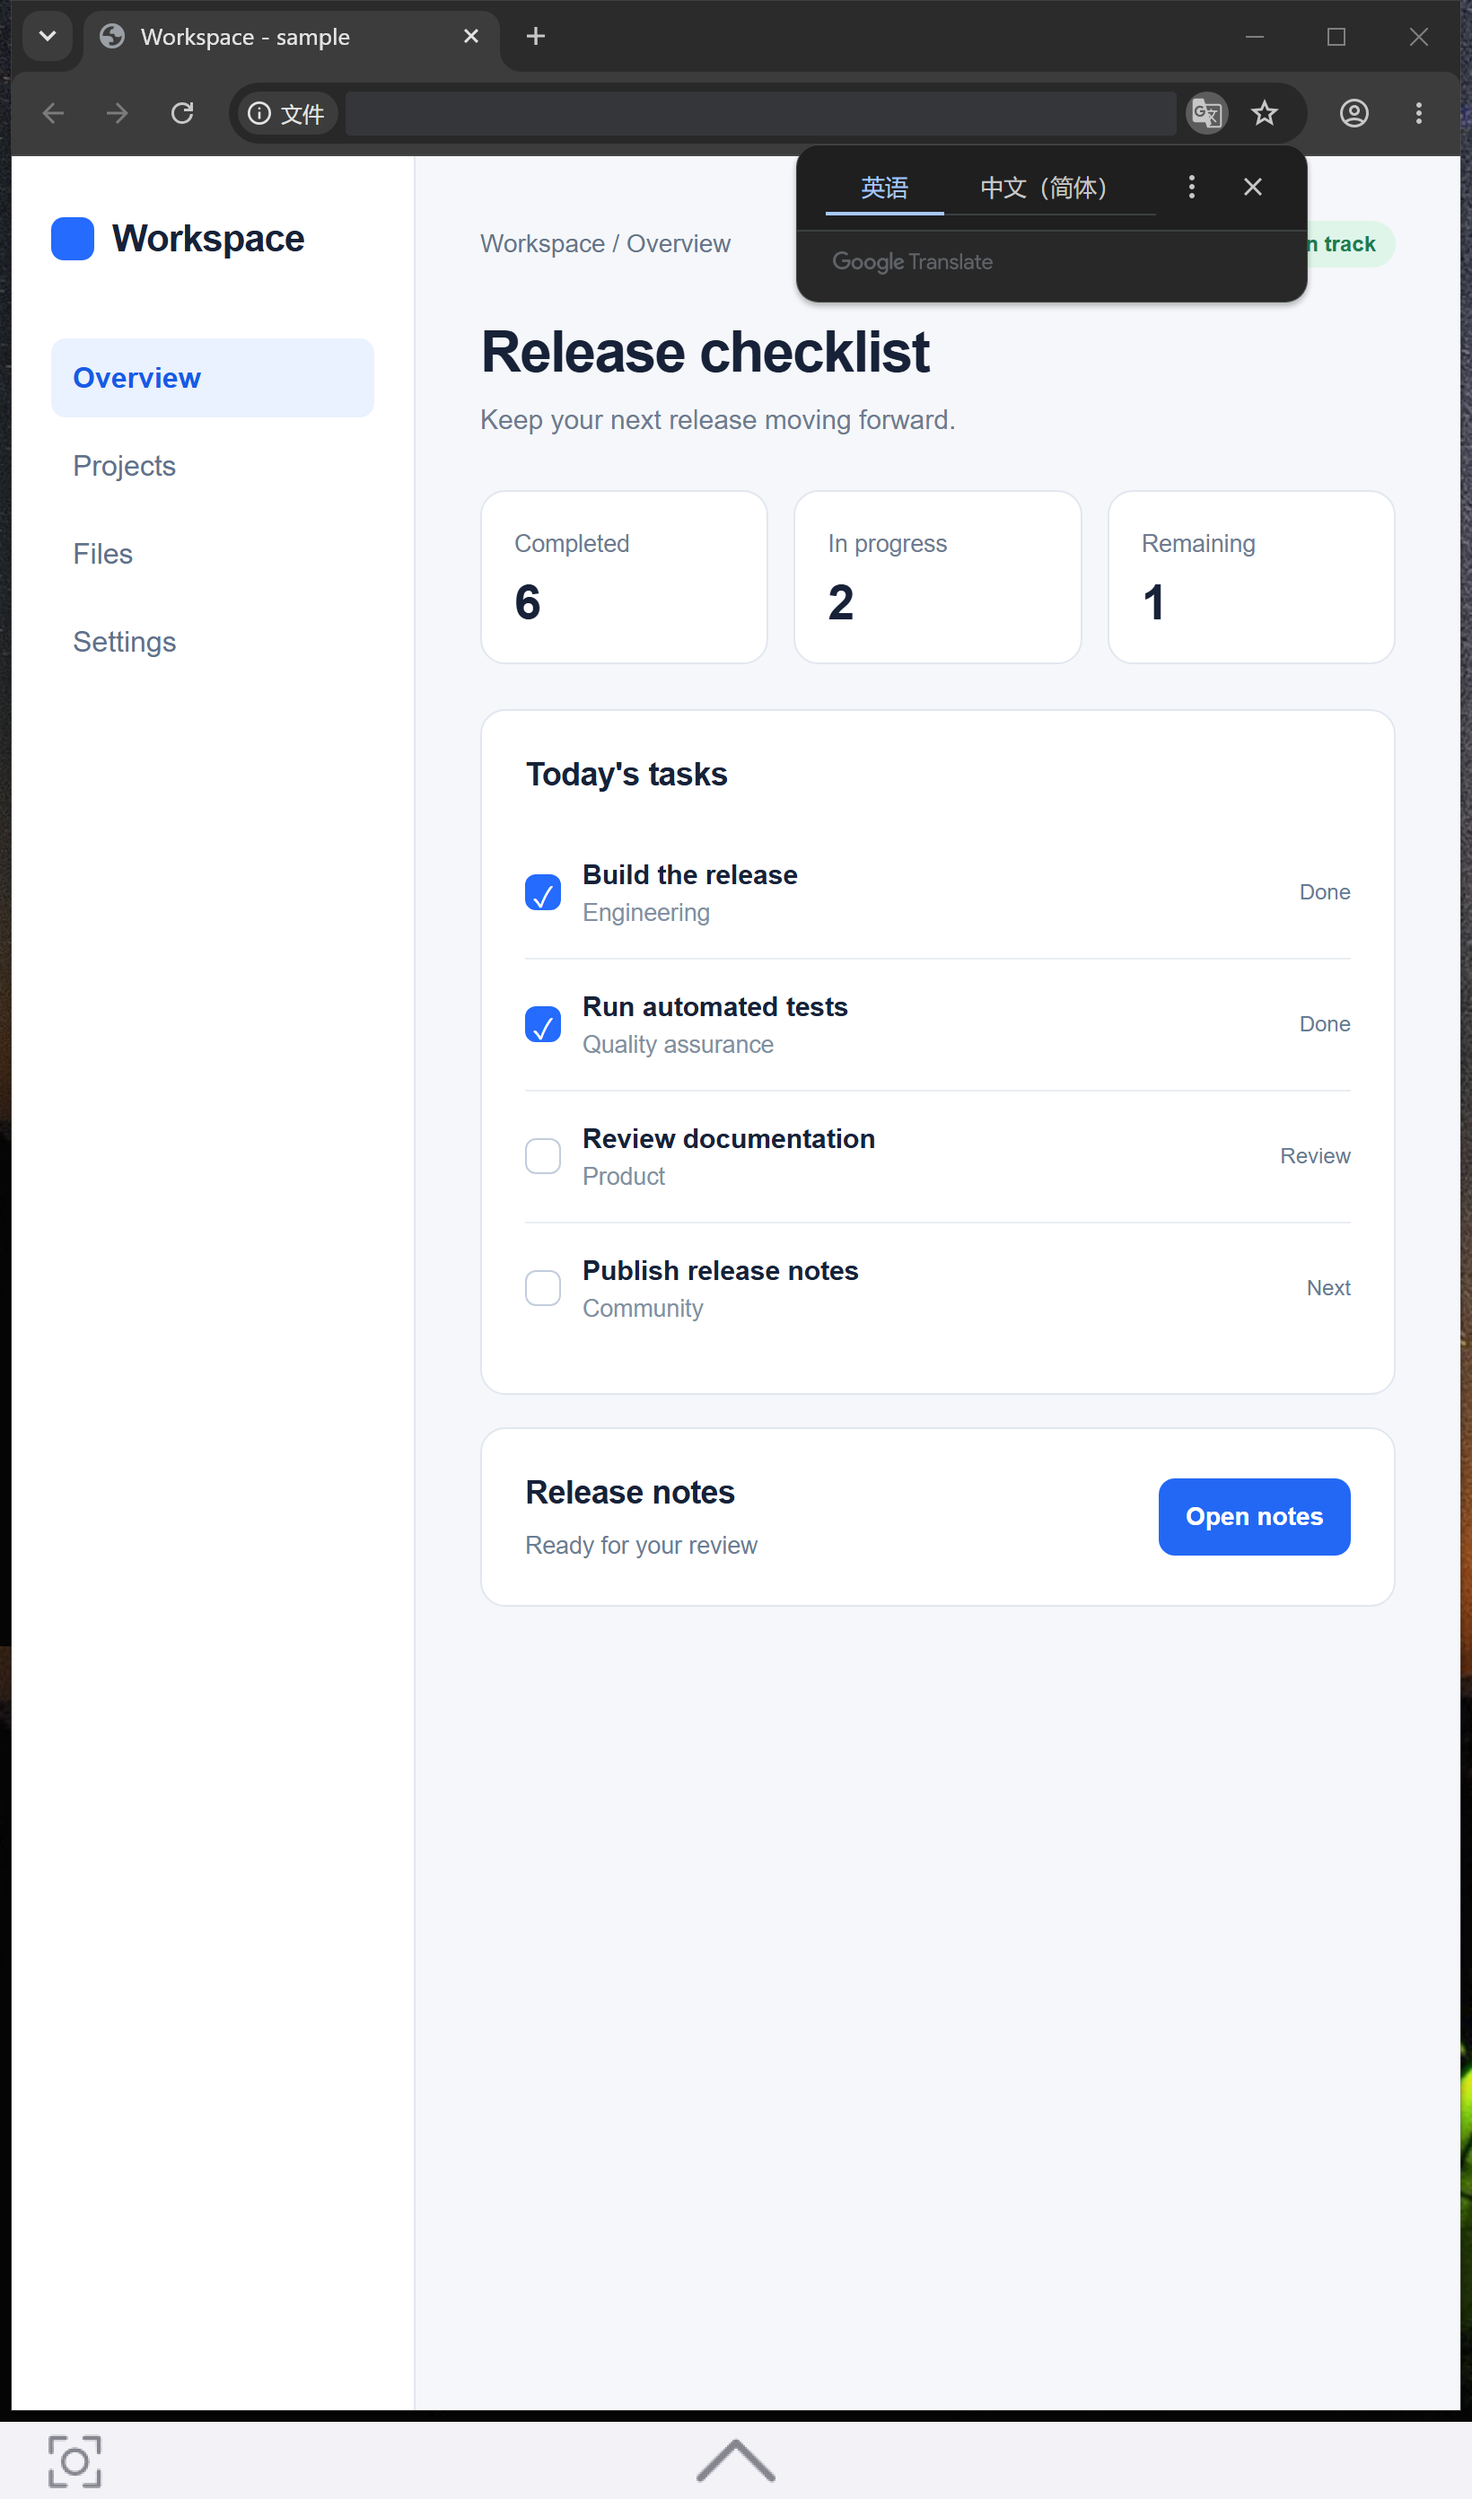
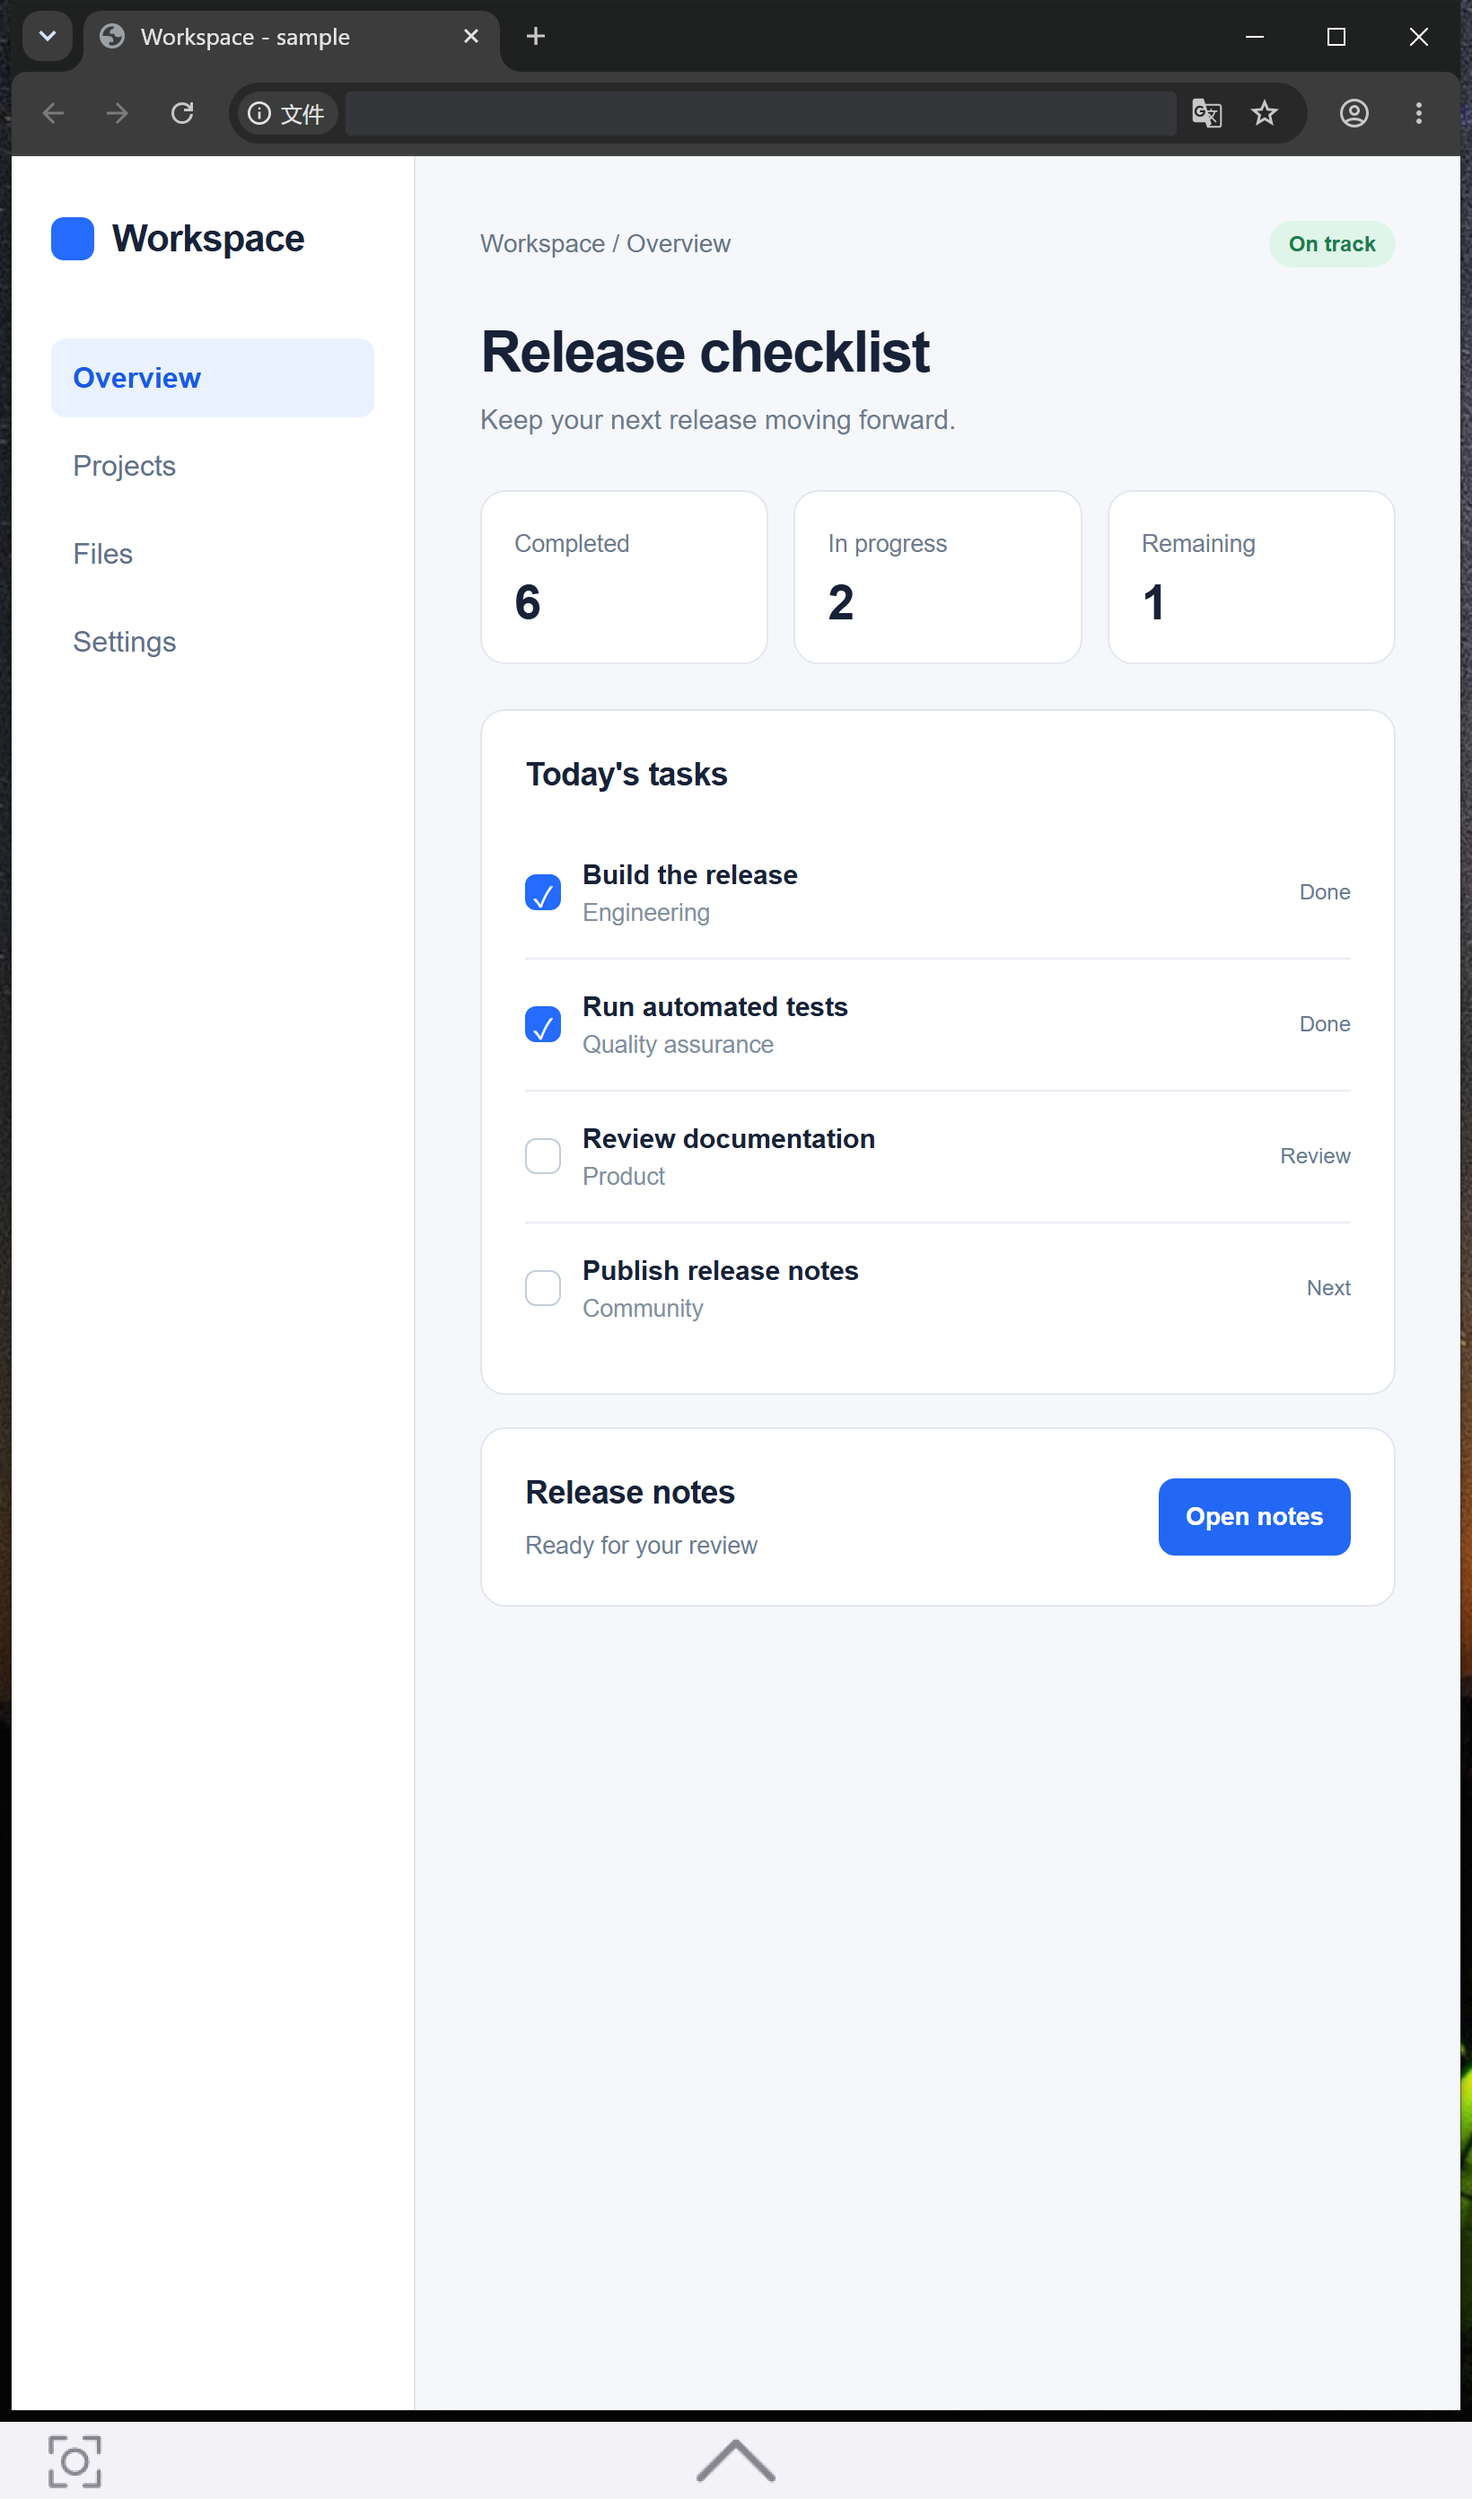
docs: showcase captured terminal workflow and clean phone screen

Changed region(s): [[0.5287, 0.0312, 0.9018, 0.125], [0.0, 0.4375, 0.0311, 0.6562], [0.0, 0.375, 0.0311, 0.4062]]

diff --git a/Assets/WindowsMedia/README.md b/Assets/WindowsMedia/README.md
@@ -7,7 +7,9 @@ The README prioritizes actual Windows application and virtual-display captures, 
 | phone-running.png | Actual Snug 0.2.38 Windows virtual display captured November 18, 2026, with UU connected. Native 1080 × 1834 pixels; app library shows Windows Settings, Calculator and Node.js. |
 | phone-browser-fit.png | Actual Windows virtual display capture from 0.2.17, November 16, 2026 (SNUG_0.2.17_BAR_RAISED.png). Chrome renders the browser-fit validation page; the return bar is visible. Local address path redacted. |
 | browser-window-before.png | Actual Chrome window on the primary Windows display before fitting, 945 x 1020, November 18 during 0.2.39 acceptance. Same local sample page as browser-phone-live.png. Address path redacted. |
-| browser-phone-live.png | Actual Snug 0.2.39 virtual-display capture during the real iPhone + UU session, 1640 x 2784. Same Chrome window after dynamic fitting; return bar visible. Address path redacted; the native Chrome translation popover is retained. Not a UU client screenshot. |
+| browser-phone-live.png | Actual Snug 0.2.39 virtual display, November 18, 1640 × 2784, during an iPhone + UU connection. Clean repeat capture of the same local sample page, with the full fitted window and return bar visible; address path redacted. |
+| phone-terminal-live.png | Actual Snug 0.2.39 virtual display, November 18, 1120 × 1902. Isolated Windows terminal: local Claude Code CLI version and Node.js test output, with return bar. Local prompt path redacted. No model inference. |
+| phone-tour-live.gif | Actual time-sampled frames of App Library search and terminal opening during the iPhone + UU session, November 18. PC-side operation; trimmed and resized to 480 × 815, with a later stable frame held at the end. Local prompt path redacted. Not a continuous mobile-client recording. |
 | phone-all-apps.png | Actual 0.2.38 WPF catalog preview, November 18. |
 | phone-search.png | Actual 0.2.38 WPF catalog preview, November 18; searching for Notepad. |
 | phone-models.png | Actual 0.2.38 WPF phone-model preview, November 18; current device, custom size and device list. |
@@ -17,4 +19,4 @@ The README prioritizes actual Windows application and virtual-display captures, 
 | desktop-vs-portrait.png | Previous illustrative comparison, removed from the main README. Not live UU capture. |
 | phone-tour.gif | Previous four-frame screenshot slideshow, removed from the main README. Not live screen recording. |
 
-Future captures: a clean terminal/AI coding workflow, a matched UU-mobile-client before/after comparison, long-press context menu, display picker and uninterrupted operation recording. See the [0.2.39 acceptance report](../../Platforms/Windows/CAPTURE_MONITOR_RECOVERY_20261118.md).
+Future captures: UU-mobile-client before/after comparison, verified phone long-press context menu, display picker, and uninterrupted on-device recording. See the [0.2.39 acceptance report](../../Platforms/Windows/CAPTURE_MONITOR_RECOVERY_20261118.md).

diff --git a/README.en.md b/README.en.md
@@ -17,10 +17,11 @@ Built for UU Remote · Dedicated portrait display · Native gestures · App Libr
 </div>
 
 <p align="center">
-<img src="Assets/WindowsMedia/phone-running.png" width="36%" alt="App Library on the Windows phone display">
-<img src="Assets/WindowsMedia/phone-browser-fit.png" width="36%" alt="Chrome fitted to the Snug phone display with the return bar">
-<br><sub>App Library · Chrome window fitted to the phone display</sub>
-<br><sub>Actual Windows virtual-display test captures; private titles and local paths redacted.</sub>
+<img src="Assets/WindowsMedia/phone-running.png" width="30%" alt="App Library on the Windows phone display">
+<img src="Assets/WindowsMedia/phone-tour-live.gif" width="30%" alt="Live captured demonstration: search, open and fit a terminal">
+<img src="Assets/WindowsMedia/browser-phone-live.png" width="30%" alt="Chrome fitted to the Snug phone display">
+<br><sub>App Library · Terminal demonstration · Chrome window fitting</sub>
+<br><sub>Actual Windows virtual-display captures; edited time-sampled demonstration, not a UU mobile client recording.</sub>
 </p>
 
 Snug for Windows is an independent community port of [Snug](https://github.com/zephyr4123/snug), maintained by [rizetngan](https://github.com/rizetngan). Based on Snug 2.5.0, it uses C# / .NET 10 / WPF. For macOS, visit the upstream project.
@@ -43,11 +44,20 @@ Ordinary remote desktop software scales the entire Windows desktop into a phone 
 
 <p align="center">
 <img src="Assets/WindowsMedia/browser-window-before.png" width="46%" alt="The original Chrome test window on the primary Windows display">
-<img src="Assets/WindowsMedia/browser-phone-live.png" width="29%" alt="The same Chrome window fitted to the Snug phone display on 0.2.39, with the bottom return bar">
+<img src="Assets/WindowsMedia/browser-phone-live.png" width="29%" alt="Chrome displaying the same sample page fitted to the Snug phone display on 0.2.39, with the bottom return bar">
 <br><sub>Same test page · Left: original Windows window · Right: Snug phone display (live 0.2.39)</sub>
 </p>
 
 Snug adapts the display mode to Chrome's minimum window width and restores the original window position after UU disconnects. These are actual Windows window and virtual-display captures taken during an iPhone connection, not screenshots of the UU mobile client.
+
+### Coding workflow
+
+<p align="center">
+<img src="Assets/WindowsMedia/phone-terminal-live.png" width="30%" alt="Actual Windows terminal: Claude Code CLI version and Node.js test results">
+<br><sub>Isolated sample project · Actual terminal output · Return bar</sub>
+</p>
+
+Search for a window in the App Library, then open the existing terminal on the phone display. The demonstration uses a local Claude Code CLI version check and Node.js tests without model inference; the virtual display was operated from the PC.
 
 ### Touch gestures
 

diff --git a/README.md b/README.md
@@ -17,10 +17,11 @@
 </div>
 
 <p align="center">
-<img src="Assets/WindowsMedia/phone-running.png" width="36%" alt="Windows 手机屏：App 资源库">
-<img src="Assets/WindowsMedia/phone-browser-fit.png" width="36%" alt="Chrome 窗口适配 Snug 手机屏，底部返回条可见">
-<br><sub>App 资源库 · Chrome 窗口铺屏</sub>
-<br><sub>Windows 实际虚拟屏测试截图，私人标题及本地路径已隐藏。</sub>
+<img src="Assets/WindowsMedia/phone-running.png" width="30%" alt="Windows 手机屏：App 资源库">
+<img src="Assets/WindowsMedia/phone-tour-live.gif" width="30%" alt="实机逐帧演示：搜索终端、打开及进入手机屏">
+<img src="Assets/WindowsMedia/browser-phone-live.png" width="30%" alt="Chrome 在 Snug 手机屏完整铺满">
+<br><sub>App 资源库 · 终端操作演示 · Chrome 铺屏</sub>
+<br><sub>实际 Windows 虚拟屏采集：动态演示经剪辑，非 UU 手机客户端录屏。</sub>
 </p>
 
 Snug for Windows 是 [Snug](https://github.com/zephyr4123/snug) 的独立社区 Windows 移植项目，由 [rizetngan](https://github.com/rizetngan) 维护。基于 Snug 2.5.0，使用 C# / .NET 10 / WPF。macOS 用户请前往上游原项目。
@@ -43,11 +44,20 @@ Snug for Windows 是 [Snug](https://github.com/zephyr4123/snug) 的独立社区 
 
 <p align="center">
 <img src="Assets/WindowsMedia/browser-window-before.png" width="46%" alt="同一 Chrome 测试窗口在 Windows 主屏上的原始大小">
-<img src="Assets/WindowsMedia/browser-phone-live.png" width="29%" alt="0.2.39 将同一 Chrome 窗口适配到 Snug 手机屏，保留底部返回条">
+<img src="Assets/WindowsMedia/browser-phone-live.png" width="29%" alt="0.2.39 将Chrome 测试页面适配到 Snug 手机屏，保留底部返回条">
 <br><sub>同一测试页面 · 左：原始 Windows 窗口 · 右：Snug 手机屏（0.2.39 实机）</sub>
 </p>
 
 Chrome 在手机屏上完整显示，Snug 按窗口最小宽度动态调整显示模式；断开 UU 后，窗口恢复原始位置。图为连接 iPhone 时从电脑采集的实际窗口与虚拟屏画面，并非 UU 手机客户端截图。
+
+### 编码工作场景
+
+<p align="center">
+<img src="Assets/WindowsMedia/phone-terminal-live.png" width="30%" alt="真实 Windows 终端：Claude Code CLI 版本与 Node.js 测试结果">
+<br><sub>独立示例项目 · 真实终端输出 · 底部返回条</sub>
+</p>
+
+在 App 资源库搜索窗口，打开已有终端并切换到手机屏。演示使用本地 Claude Code CLI 版本查询及 Node.js 测试，未调用模型；虚拟屏采集由电脑端操作完成。
 
 ### 手机触控
 
